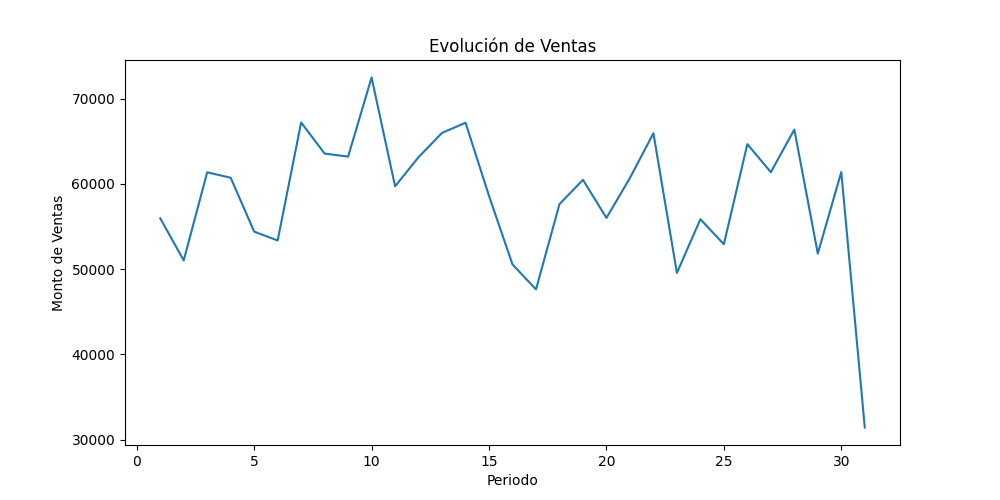
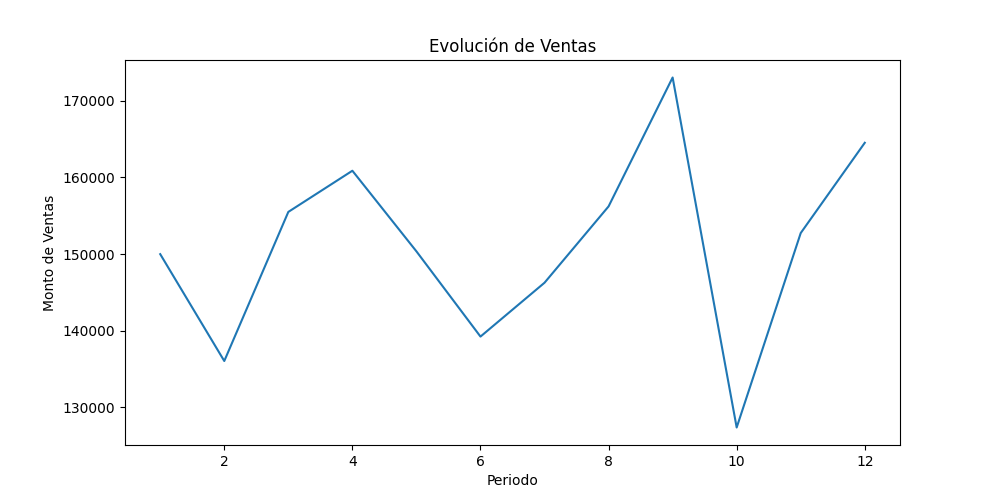
PROY-17: Corregir agrupación temporal de ventas

diff --git a/scripts/analisis_ventas.py b/scripts/analisis_ventas.py
@@ -49,7 +49,7 @@ print(menor_venta)
 
 # BUG intencional para revisión QA
 ventas_por_periodo = df.groupby(
-    df["sales_date"].dt.day
+    df["sales_date"].dt.month
 )["sales_amount"].sum()
 
 # =========================